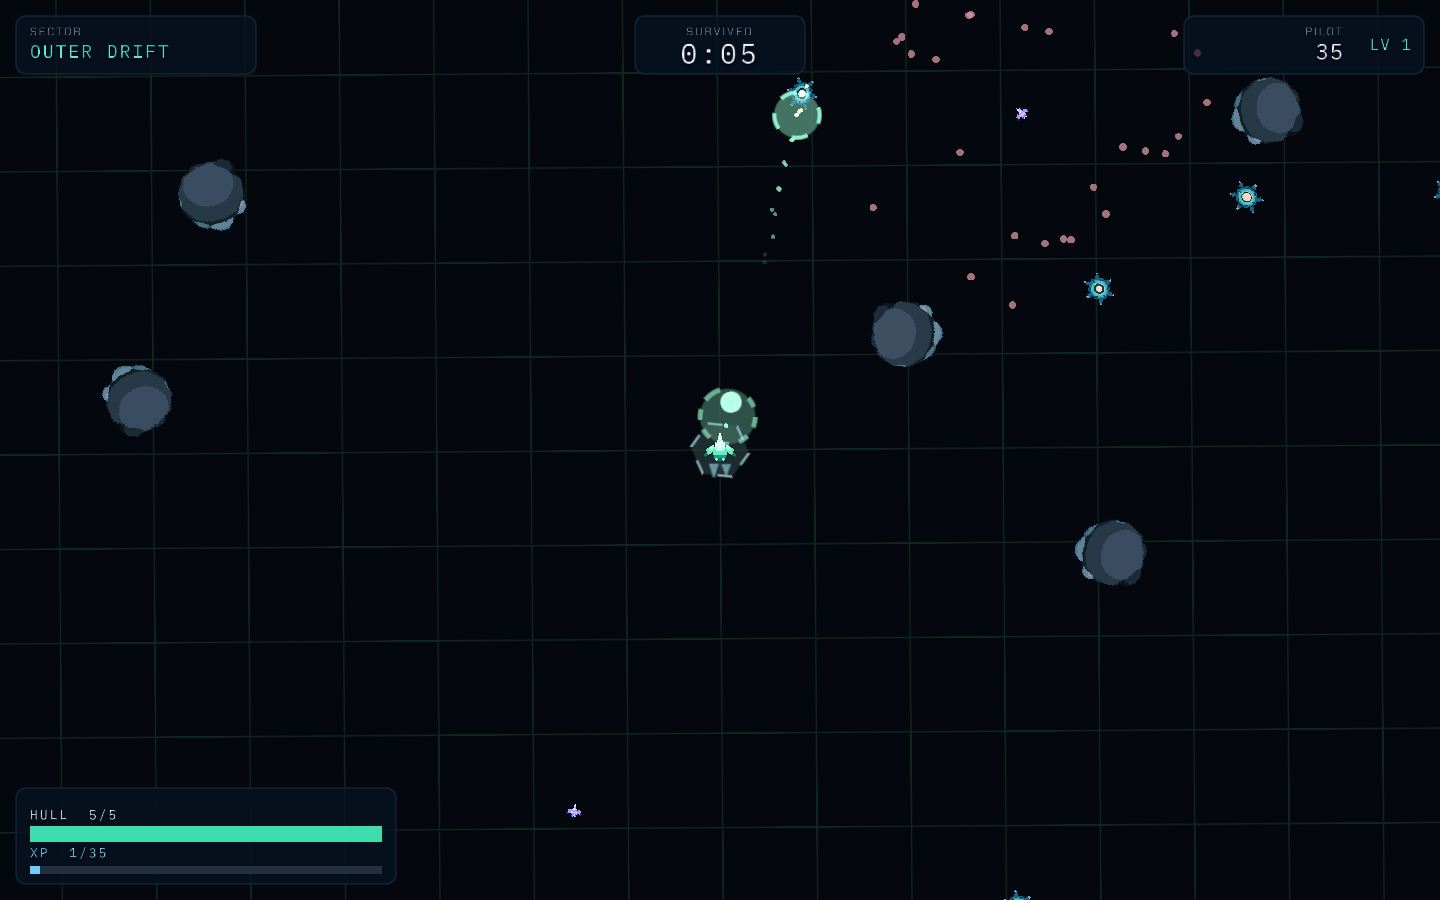
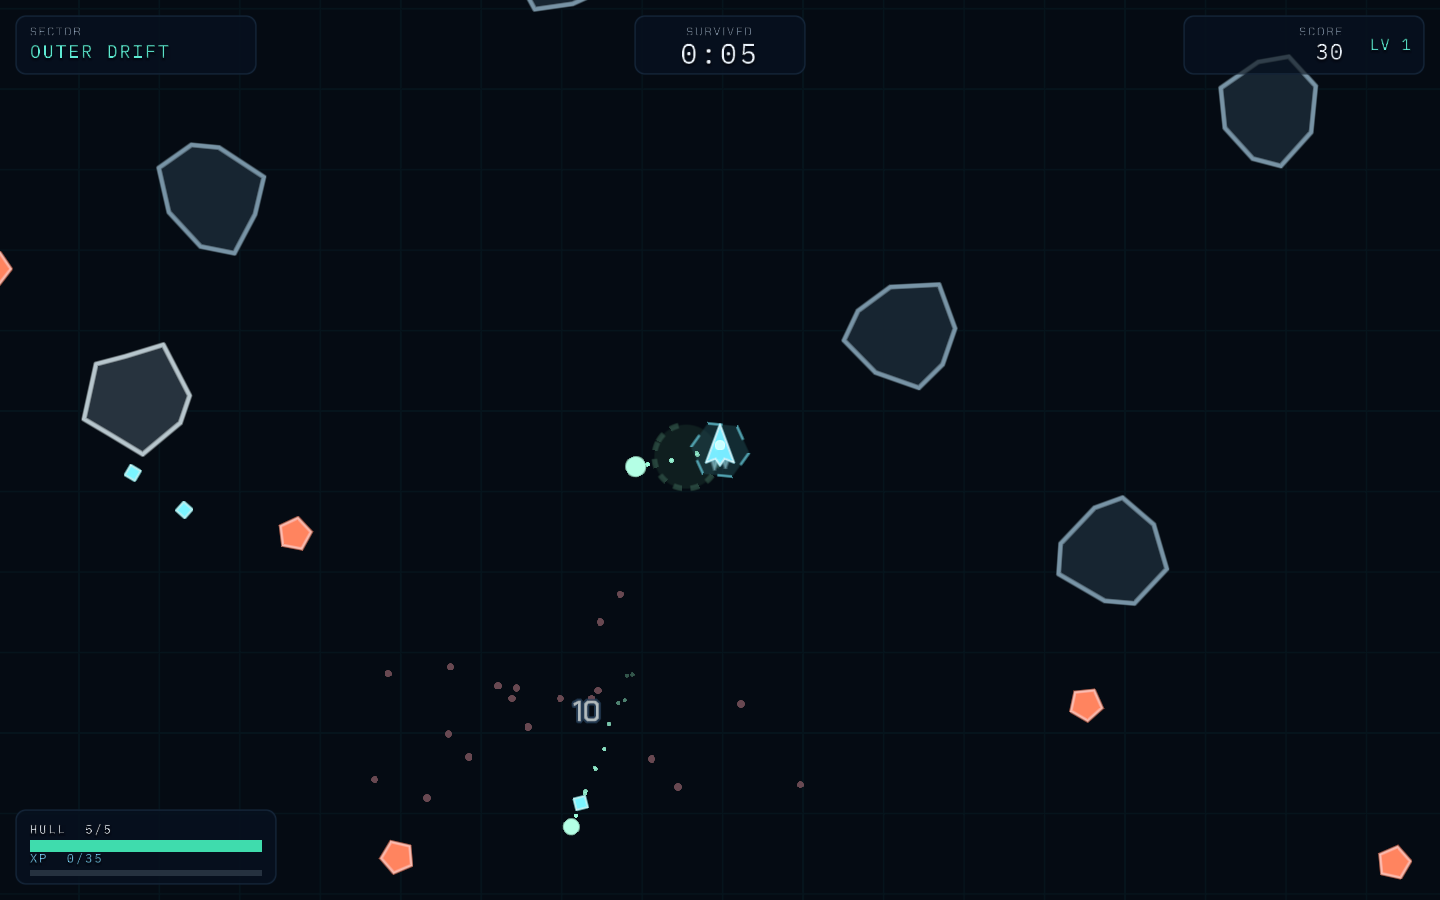
Recapture the site's Orbital shots in the vector look
The Aegis shot opens its rush through the board, because clicking the
picker eleven times landed on the Warden.

Claude-Session: https://claude.ai/code/session_0159wA3itdZRqamVriaRyx4u

diff --git a/site/screenshots/README.md b/site/screenshots/README.md
@@ -55,7 +55,7 @@ $C site/screenshots/orbital-baked-combat.png 1440 900 click:title-start wait:5
 $C site/screenshots/orbital-baked-upgrade.png 1440 900 click:title-start wait:3 set:cores=40 wait:1
 $C site/screenshots/orbital-baked-phone.png 390 844 click:title-start wait:5
 $C site/screenshots/orbital-baked-aegis.png 1440 900 \
-  $(printf 'click:title-pick %.0s' $(seq 11)) click:title-rush wait:7
+  set:rush_from=11 wait:0.1 click:title-rush wait:7
 
 cargo run -p sindri-causeway --bin causeway-capture -- site/screenshots/causeway.png
 cargo run -p sindri-cube --bin capture -- site/screenshots/scene-frame-pipeline.png
